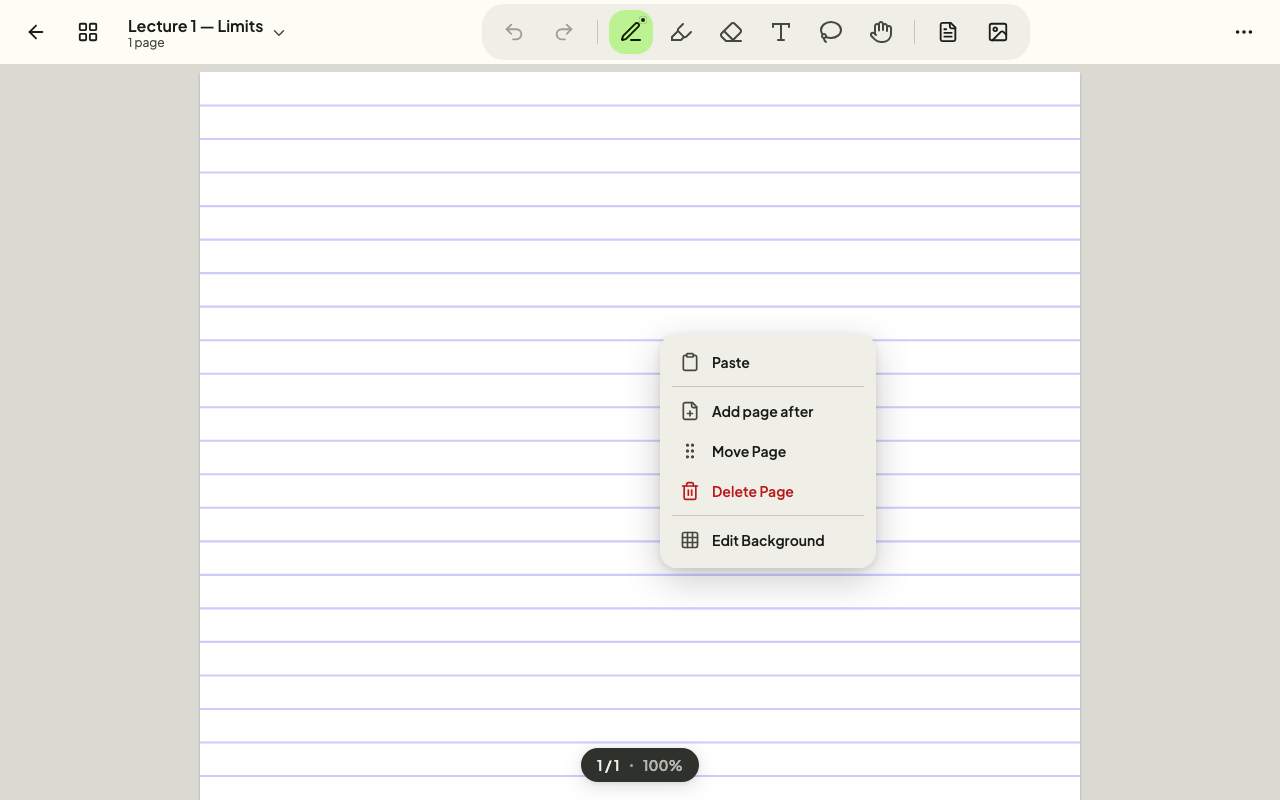
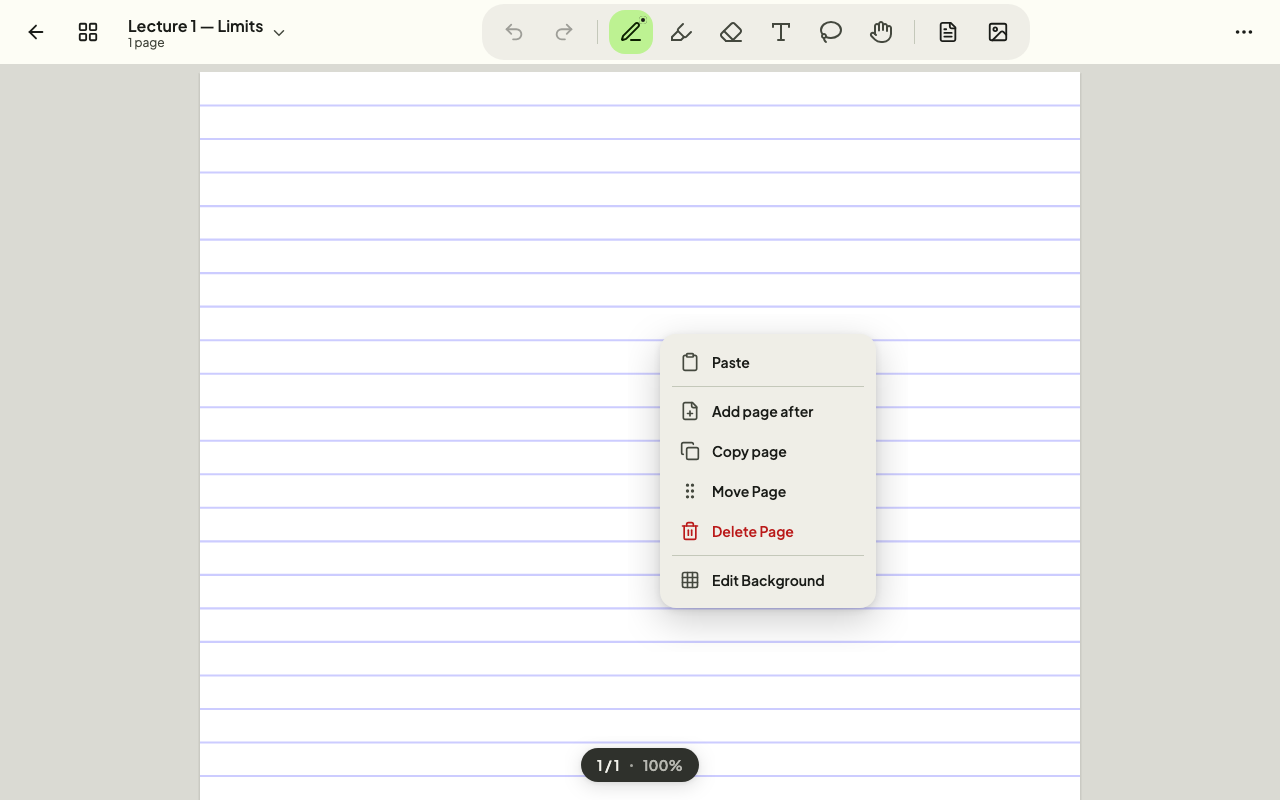
feat(ui): copy and paste a page from its menus, one clipboard for every window of the applications
The context menu of a page and the menu of a page in the grid copy the page and paste the pages
copied after it. DocumentLibrary takes the clipboard of the application; PencilNotes and the
sample keep one for the process, given to the library and to every document window. The ABI of
drawview-explorer is recorded again on purpose (the clipboard of DocumentLibrary), and the one of
drawview-ui for a lambda the compiler named again; one screenshot of the context menu recorded
again.

Changed region(s): [[0.5, 0.6562, 0.6875, 0.7812], [0.5312, 0.5312, 0.625, 0.625]]

diff --git a/drawview-ui/src/commonMain/kotlin/io/github/valerioisufi/drawview/ui/components/PageGridOverlay.kt b/drawview-ui/src/commonMain/kotlin/io/github/valerioisufi/drawview/ui/components/PageGridOverlay.kt
@@ -60,6 +60,7 @@ import io.github.valerioisufi.drawview.ui.adaptive.currentAdaptiveInfo
 import io.github.valerioisufi.drawview.ui.command.DesignMenu
 import io.github.valerioisufi.drawview.ui.command.MenuDivider
 import io.github.valerioisufi.drawview.ui.command.MenuItem
+import io.github.valerioisufi.drawview.ui.screen.EditorCommands
 import io.github.valerioisufi.drawview.ui.generated.resources.*
 import io.github.valerioisufi.drawview.ui.theme.DrawViewElevation
 import io.github.valerioisufi.drawview.ui.theme.DrawViewIcons
@@ -71,8 +72,10 @@ import org.jetbrains.compose.resources.stringResource
 
 /**
  * Full-screen grid of the pages of the document: thumbnails, jump to a page, page actions
- * (add after, delete, background) and reordering by drag & drop after a long press.
+ * (add after, copy, paste after, delete, background) and reordering by drag & drop after a long
+ * press.
  *
+ * @param commands the commands of the editor, copying and pasting the pages (none: no copy).
  * @param onEditPageBackground opens the template configurator of the page at the given index.
  */
 @OptIn(ExperimentalMaterial3Api::class)
@@ -80,6 +83,7 @@ import org.jetbrains.compose.resources.stringResource
 internal fun PageGridOverlay(
     controller: DrawViewController,
     modifier: Modifier = Modifier,
+    commands: EditorCommands? = null,
     onEditPageBackground: (Int) -> Unit = {}
 ) {
     val document = controller.document
@@ -303,6 +307,28 @@ internal fun PageGridOverlay(
                                             pageManager.addNewPageAfter(index)
                                         }
                                     )
+                                    if (commands != null) {
+                                        MenuItem(
+                                            text = stringResource(Res.string.context_menu_action_copy_page),
+                                            icon = rememberVectorPainter(DrawViewIcons.Copy),
+                                            onClick = {
+                                                menuExpanded = false
+                                                pageManager.contextMenuTargetPageIndex = index
+                                                commands.copyPage(index)
+                                            }
+                                        )
+                                        if (commands.canPastePages()) {
+                                            MenuItem(
+                                                text = stringResource(Res.string.context_menu_action_paste_page),
+                                                icon = rememberVectorPainter(DrawViewIcons.Clipboard),
+                                                onClick = {
+                                                    menuExpanded = false
+                                                    pageManager.contextMenuTargetPageIndex = index
+                                                    commands.pastePagesAfter(index)
+                                                }
+                                            )
+                                        }
+                                    }
                                     MenuItem(
                                         text = stringResource(Res.string.context_menu_action_edit_background),
                                         icon = rememberVectorPainter(DrawViewIcons.Grid),

diff --git a/pencilnotes/shared/src/commonMain/kotlin/io/github/valerioisufi/pencilnotes/PencilNotesApp.kt b/pencilnotes/shared/src/commonMain/kotlin/io/github/valerioisufi/pencilnotes/PencilNotesApp.kt
@@ -21,6 +21,7 @@ import androidx.compose.ui.text.style.TextOverflow
 import androidx.compose.ui.unit.Dp
 import androidx.compose.ui.unit.dp
 import androidx.compose.ui.unit.sp
+import io.github.valerioisufi.drawview.canvas.controller.EditorClipboard
 import io.github.valerioisufi.drawview.canvas.render.DrawViewEngines
 import io.github.valerioisufi.drawview.explorer.DocumentLibrary
 import io.github.valerioisufi.drawview.explorer.DocumentThumbnails
@@ -58,6 +59,13 @@ import io.github.valerioisufi.pencilnotes.generated.resources.app_name
 import io.github.valerioisufi.pencilnotes.ui.theme.PencilNotesTheme
 import io.github.valerioisufi.pencilnotes.ui.theme.cherryBombOneFontFamily
 import org.jetbrains.compose.resources.stringResource
+
+/**
+ * What is copied and pasted in the editors of PencilNotes: one for the process, shared by the editors
+ * of all its documents and windows, so that what is copied in a document is pasted in another one
+ * (it outlives the activities of Android, recreated on a rotation).
+ */
+private val editorClipboard = EditorClipboard()
 
 /**
  * PencilNotes: the DrawView document library with the PencilNotes identity.
@@ -136,6 +144,7 @@ fun PencilNotesApp(
                             )
                         },
                         onOpenDocumentInNewWindow = onOpenDocumentInNewWindow,
+                        clipboard = editorClipboard,
                         modifier = Modifier.fillMaxSize()
                     )
                 }
@@ -201,7 +210,7 @@ fun PencilNotesDocumentWindow(
         val export = rememberDocumentExportUi(documents, appName = "PencilNotes")
         val engines = remember { DrawViewEngines(pdfTiles = PdfiumEngine::createTileAdapter, formulas = LatexEngine.formulaRenderer) }
         val editorViewModel = viewModel(key = "doc-$documentId") {
-            DocumentEditorViewModel(documents, engines).apply {
+            DocumentEditorViewModel(documents, engines, clipboard = editorClipboard).apply {
                 openDocument(documentId)
             }
         }

diff --git a/sample/shared/src/commonMain/kotlin/io/github/valerioisufi/drawview/App.kt b/sample/shared/src/commonMain/kotlin/io/github/valerioisufi/drawview/App.kt
@@ -8,6 +8,7 @@ import androidx.compose.runtime.LaunchedEffect
 import androidx.compose.runtime.remember
 import androidx.compose.ui.Modifier
 import androidx.lifecycle.viewmodel.compose.viewModel
+import io.github.valerioisufi.drawview.canvas.controller.EditorClipboard
 import io.github.valerioisufi.drawview.canvas.render.DrawViewEngines
 import io.github.valerioisufi.drawview.canvas.render.ElementRenderers
 import io.github.valerioisufi.drawview.explorer.DocumentLibrary
@@ -24,6 +25,13 @@ import io.github.valerioisufi.drawview.ui.generated.resources.Res
 import io.github.valerioisufi.drawview.ui.generated.resources.app_name
 import io.github.valerioisufi.drawview.ui.theme.DrawViewTheme
 import org.jetbrains.compose.resources.stringResource
+
+/**
+ * What is copied and pasted in the editors of the sample: one for the process, shared by the editors
+ * of all its documents and windows, so that what is copied in a document is pasted in another one
+ * (it outlives the activities of Android, recreated on a rotation).
+ */
+private val editorClipboard = EditorClipboard()
 
 /**
  * DrawView sample application: the document library and the editor of the open document, with
@@ -58,6 +66,7 @@ fun App(
                 thumbnails = rememberDocumentThumbnails(documents, DocumentThumbnails.defaultDirectory(), engines),
                 editorExtension = shapes,
                 onOpenDocumentInNewWindow = onOpenDocumentInNewWindow,
+                clipboard = editorClipboard,
                 modifier = Modifier.fillMaxSize()
             )
         }
@@ -85,7 +94,7 @@ fun SampleDocumentWindow(
     val documents = DrawViewStore.documents
     DrawViewTheme {
         val editorViewModel = viewModel(key = "sample-doc-$documentId") {
-            DocumentEditorViewModel(documents, engines).apply {
+            DocumentEditorViewModel(documents, engines, clipboard = editorClipboard).apply {
                 openDocument(documentId)
             }
         }

diff --git a/drawview-explorer/src/commonMain/kotlin/io/github/valerioisufi/drawview/explorer/DocumentLibrary.kt b/drawview-explorer/src/commonMain/kotlin/io/github/valerioisufi/drawview/explorer/DocumentLibrary.kt
@@ -9,6 +9,7 @@ import androidx.compose.runtime.LaunchedEffect
 import androidx.compose.runtime.remember
 import androidx.compose.ui.Modifier
 import androidx.lifecycle.viewmodel.compose.viewModel
+import io.github.valerioisufi.drawview.canvas.controller.EditorClipboard
 import io.github.valerioisufi.drawview.canvas.controller.MediaManager
 import io.github.valerioisufi.drawview.canvas.render.DrawViewEngines
 import io.github.valerioisufi.drawview.canvas.render.tile.TextFace
@@ -60,6 +61,9 @@ import kotlinx.coroutines.withContext
  * @param thumbnails the thumbnails of the documents (the first pages of the grid of a wider
  *   window): in memory by default; [DocumentThumbnails.defaultDirectory] keeps those of a store
  *   that outlives the application.
+ * @param clipboard what is copied and pasted in the editor: the one of the application, shared
+ *   with its other windows, so that what is copied in a document is pasted in another one (by
+ *   default, the editor of this library only).
  */
 @Composable
 public fun DocumentLibrary(
@@ -75,10 +79,11 @@ public fun DocumentLibrary(
     tags: List<DocumentTag> = emptyList(),
     engines: DrawViewEngines = DrawViewEngines.None,
     thumbnails: DocumentThumbnails = rememberDocumentThumbnails(documents, engines = engines),
-    onOpenDocumentInNewWindow: ((String) -> Unit)? = null
+    onOpenDocumentInNewWindow: ((String) -> Unit)? = null,
+    clipboard: EditorClipboard = remember { EditorClipboard() }
 ) {
     val fileExplorerViewModel = viewModel { FileExplorerViewModel(documents) }
-    val editorViewModel = viewModel { DocumentEditorViewModel(documents, engines) }
+    val editorViewModel = viewModel { DocumentEditorViewModel(documents, engines, clipboard = clipboard) }
 
     // The formula engine may unpack its fonts at the first start: off the main thread. The text
     // of the formulas (\text{}) is in the font of the notes, as their text

diff --git a/drawview-ui/src/commonMain/kotlin/io/github/valerioisufi/drawview/ui/editor/CanvasOverlays.kt b/drawview-ui/src/commonMain/kotlin/io/github/valerioisufi/drawview/ui/editor/CanvasOverlays.kt
@@ -155,10 +155,12 @@ internal fun CanvasContextMenu(
                 SelectionMenuItems(controller, commands)
                 return@Column
             }
-            // What was copied here or in another application, where the menu was opened
+            // What was copied in any document or in another application, where the menu was
+            // opened (pages after this page)
             if (remember(position) { commands.canPaste() }) {
+                val pastesPages = remember(position) { commands.pastesPages() }
                 MenuItem(
-                    text = stringResource(Res.string.common_action_paste),
+                    text = stringResource(if (pastesPages) Res.string.context_menu_action_paste_page else Res.string.common_action_paste),
                     icon = rememberVectorPainter(DrawViewIcons.Clipboard),
                     shortcut = commands.paste.shortcutLabel(currentAdaptiveInfo().conventions).takeIf { currentAdaptiveInfo().input.hasKeyboard },
                     onClick = {
@@ -174,6 +176,14 @@ internal fun CanvasContextMenu(
                 onClick = {
                     controller.contextMenuPosition = null
                     pageManager.addNewPageAfter(pageManager.contextMenuTargetPageIndex)
+                }
+            )
+            MenuItem(
+                text = stringResource(Res.string.context_menu_action_copy_page),
+                icon = rememberVectorPainter(DrawViewIcons.Copy),
+                onClick = {
+                    controller.contextMenuPosition = null
+                    commands.copyPage(pageManager.contextMenuTargetPageIndex)
                 }
             )
             MenuItem(

diff --git a/drawview-ui/src/commonMain/kotlin/io/github/valerioisufi/drawview/ui/screen/EditorCommands.kt b/drawview-ui/src/commonMain/kotlin/io/github/valerioisufi/drawview/ui/screen/EditorCommands.kt
@@ -190,7 +190,7 @@ internal class EditorCommands internal constructor(
     fun pasteAt(position: Offset?) {
         val text = clipboard.getText()?.text
         val content = controller.clipboard.content
-        if (!text.isNullOrBlank() && (content == null || text != controller.clipboard.systemText)) {
+        if (!text.isNullOrBlank() && isNewerThanCopied(text)) {
             controller.textEditorManager.pasteText(text, position)
             return
         }
@@ -204,6 +204,17 @@ internal class EditorCommands internal constructor(
             )
             null -> Unit
         }
+    }
+
+    /** Whether [text] of the clipboard of the system was copied after what was copied in the editors (see [EditorClipboard.systemText]). */
+    private fun isNewerThanCopied(text: String): Boolean =
+        controller.clipboard.content == null || text != controller.clipboard.systemText
+
+    /** Whether a paste puts pages (copied last), not elements or a text (see [pasteAt]). */
+    fun pastesPages(): Boolean {
+        if (controller.clipboard.content !is CopiedPages) return false
+        val text = clipboard.getText()?.text
+        return text.isNullOrBlank() || !isNewerThanCopied(text)
     }
 
     /** Whether there is something to paste: elements or pages copied in any document, or a text of the clipboard. */

diff --git a/drawview-ui/src/commonMain/kotlin/io/github/valerioisufi/drawview/ui/screen/DrawScreen.kt b/drawview-ui/src/commonMain/kotlin/io/github/valerioisufi/drawview/ui/screen/DrawScreen.kt
@@ -366,6 +366,7 @@ private fun DrawScreenContent(
         ) {
             PageGridOverlay(
                 controller = controller,
+                commands = commands,
                 onEditPageBackground = { showSinglePageConfigurator = true }
             )
         }

diff --git a/docs/cross-document-paste.md b/docs/cross-document-paste.md
@@ -168,7 +168,7 @@ public class EditorClipboard {
 | 1 | `KeyValueDocumentStore` keeps the files other documents point at when a document is deleted; test in `drawview-store` (two documents with the same image, one deleted, the file kept; the last deleted, the file deleted) | Done |
 | 2 | `CopiedContent`, `CopiedResource`, `ContentPaste` in `drawview-model`: copying elements and pages into values, the changes pasting them (ids, offsets, order on top, order keys, resources mapped by hash or added on the same file, elements of a missing file left out); tests in `drawview-model` (into another document and the same, images, PDF pages with their marks, custom elements, background kept, undo, what the changes send); ABI recorded on purpose | Done |
 | 3 | `EditorClipboard` in `drawview-canvas`, given to `DrawViewController` and `DocumentEditorViewModel`; `SelectionManager` copy, cut and paste through it (placement in another document); `PageManager.copyPage`, `pastePages`; `EditorCommands` choosing what to paste by the last copy; tests in `drawview-canvas` (two controllers on one clipboard: elements, an image, a page; read-only target; the last copy wins); ABI recorded on purpose | Done |
-| 4 | The menus: "Copy page" and "Paste page" in the context menu of a page and in the page grid, the strings in every language; PencilNotes and the sample sharing one clipboard (all the desktop windows); screenshots recorded again where the menus change; the desktop application on a scratch directory, copying between two windows | Planned |
+| 4 | The menus: "Copy page" and "Paste page" in the context menu of a page and in the page grid, the strings in every language; PencilNotes and the sample sharing one clipboard (all the desktop windows); screenshots recorded again where the menus change; the desktop application on a scratch directory, copying between two windows | Done |
 
 ### Phase 1 results
 
@@ -265,6 +265,29 @@ public class EditorClipboard {
 * ABI recorded again on purpose: `drawview-canvas` (`EditorClipboard`, the parameter of the
   controller, the message, the page functions; `SelectionManager.clipboard` removed),
   `drawview-session` (the parameter of the model), `drawview-ui` (the strings only).
+
+### Phase 4 results
+
+* The context menu of a page (`CanvasContextMenu`): "Copy page" after "Add page after"; the item
+  Paste is named "Paste page after" when what a paste puts is pages (`EditorCommands.pastesPages`:
+  pages copied last, no text of another application copied after), and puts them after the page
+  of the menu.
+* The menu of a page in the grid (`PageGridOverlay`, given the commands of the editor by
+  `DrawScreen`): "Copy page", and "Paste page after" once pages were copied.
+* `DocumentLibrary(clipboard = …)` (`drawview-explorer`) gives it to the editor of the library.
+  PencilNotes and the sample keep one `EditorClipboard` for the process (a private value of
+  `PencilNotesApp.kt` and `App.kt`, outside the activities of Android), given to the library and
+  to every document window of the desktop: the editors of all the windows share it.
+* Screenshots: `editor-context-menu-tablet-landscape-light` (`drawview-explorer`) recorded again,
+  with "Copy page"; the others of explorer, ui, sync-ui, lecture-ui and export-ui unchanged.
+* ABI recorded again on purpose: `drawview-explorer` (the parameter of `DocumentLibrary`),
+  `drawview-ui` (a `ComposableSingletons` lambda named again by the compiler, nothing public).
+* Checks: `jvmTest`, `checkKotlinAbi`, `verifyRoborazziJvm` of the five UI modules, the Android
+  and iOS compilations, the two Android applications, the consumer checks. PencilNotes desktop run
+  on a scratch directory (`-Ddrawview.dataDir`): it starts, its database at version 21, no error
+  in its output. Its windows were not driven by hand: the copy between two windows goes through
+  the same `EditorClipboard` the tests share between two editors; trying it on the user's devices
+  is left to the user.
 
 ## Decisions
 
